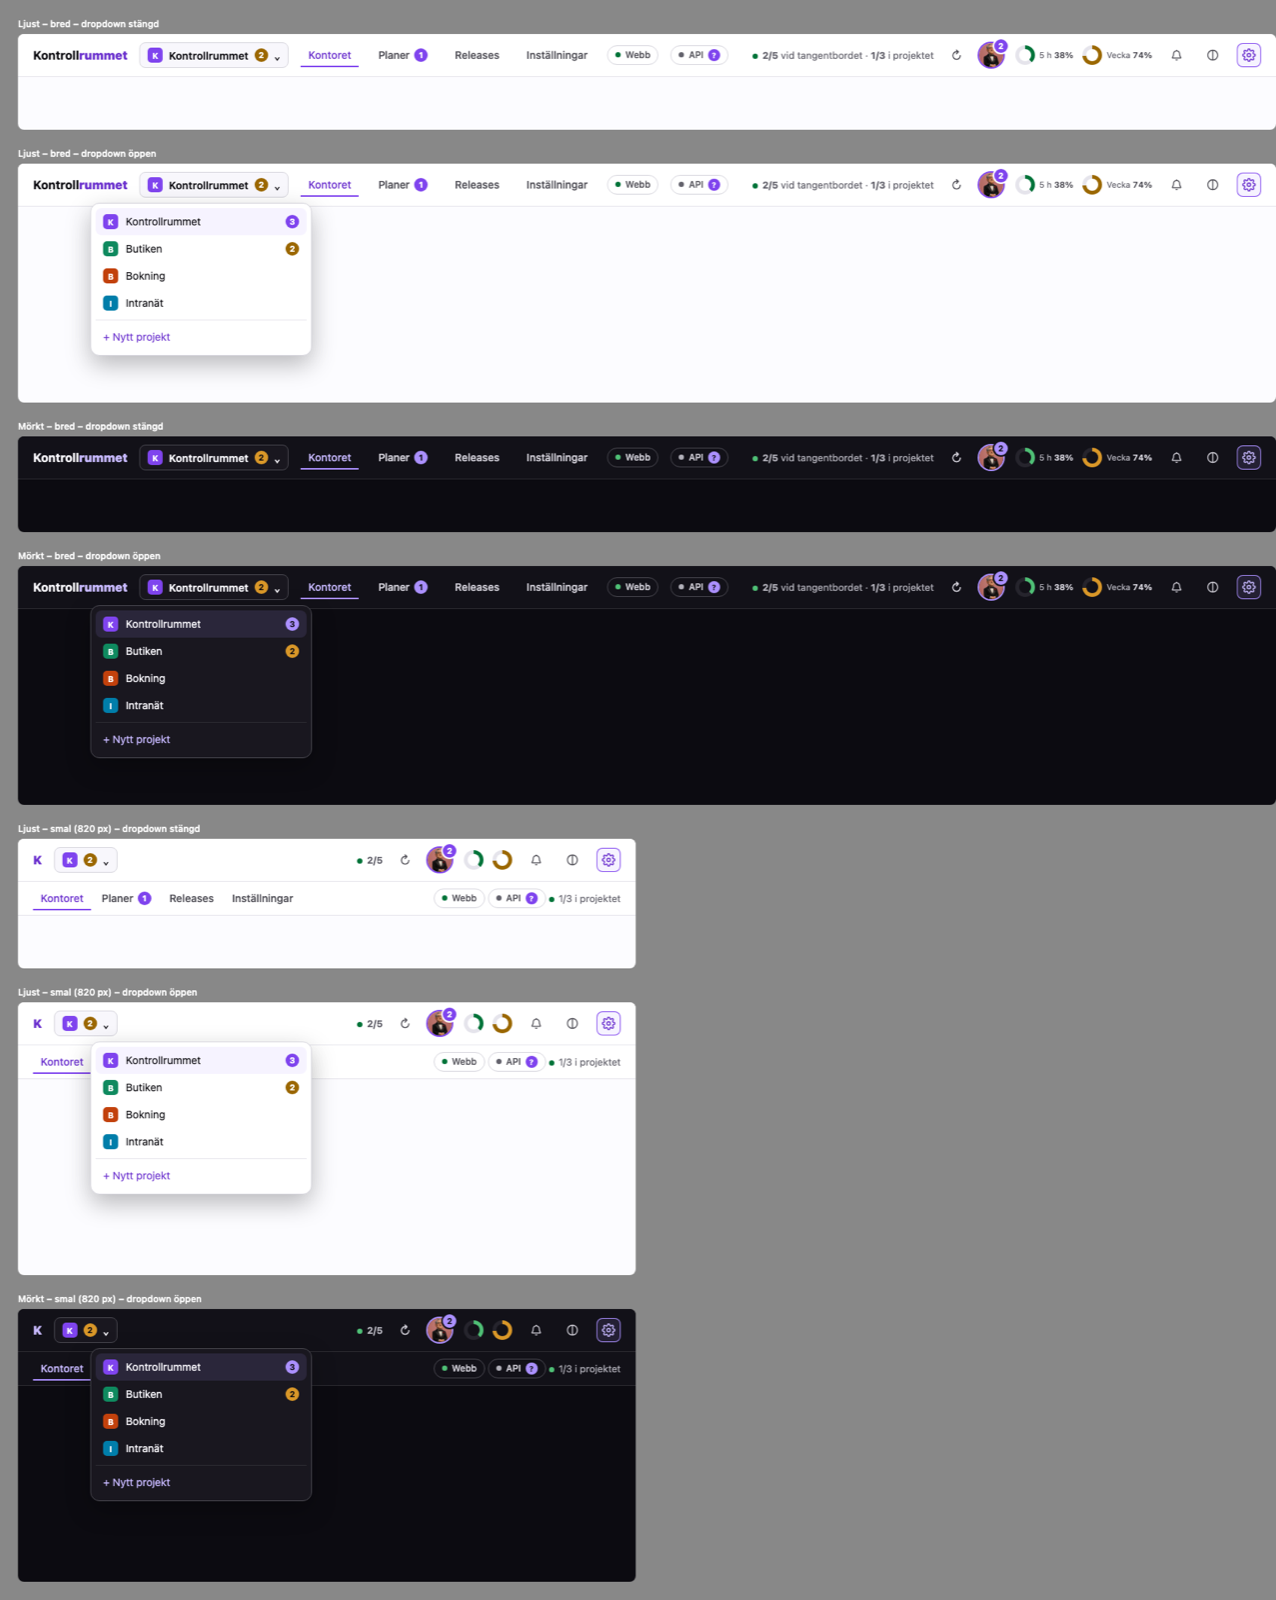
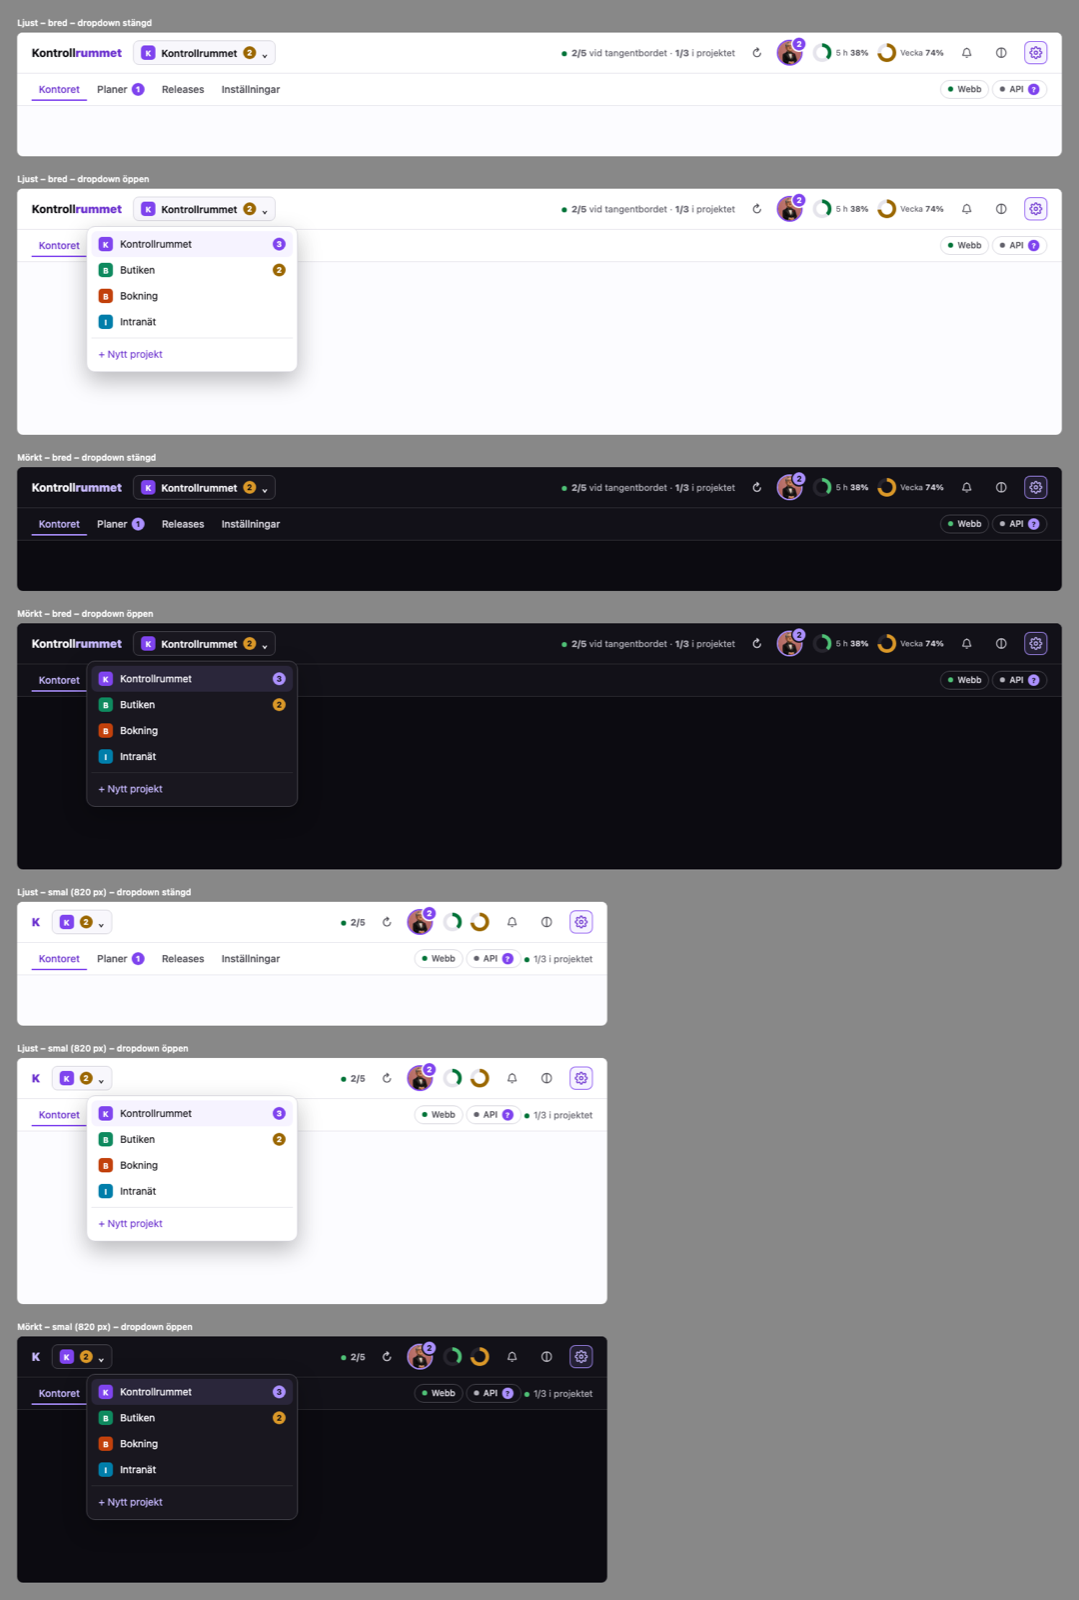
Skiss: vyflikar och appknappar på andra raden även på bred bredd

Changed region(s): [[0.0, 0.0, 1.0, 1.0]]

diff --git a/design/toppmeny.html b/design/toppmeny.html
@@ -23,7 +23,7 @@ h2{margin:0 0 6px;font:600 12px system-ui;color:#fff}
 .mi{display:flex;align-items:center;gap:10px;padding:8px 10px;border-radius:8px}
 .mi.sel{background:var(--color-brand-tint)}.mi span.n{flex:1}.mi .cnt{margin-left:auto}
 .mi.new{border-top:1px solid var(--color-line-hairline);border-radius:0 0 8px 8px;margin-top:4px;padding-top:12px;color:var(--color-brand-text)}
-.us{display:flex;gap:12px;align-items:center}.pie{white-space:nowrap;display:flex;align-items:center;gap:6px;font-size:11px;color:var(--color-fg-tertiary)}.pie i{width:26px;height:26px;border-radius:50%;background:conic-gradient(var(--c) calc(var(--p)*1%),var(--color-surface-4) 0);display:grid;place-items:center}.pie i::after{content:"";width:16px;height:16px;border-radius:50%;background:var(--color-bg-raised)}.pie b{color:var(--color-fg-secondary);font-weight:600;font-variant-numeric:tabular-nums}.pie.mid{--c:var(--color-state-warning)}.pie.hi{--c:var(--color-state-danger)}.pie{--c:var(--color-state-success)}.bar.sub{height:44px;gap:4px;overflow-x:auto}.narrow .menu{top:52px}.chip{display:flex;align-items:center;gap:6px;padding:4px 10px;border:1px solid var(--color-line-default);border-radius:999px;font-size:12px;font-weight:500;color:var(--color-fg-secondary);white-space:nowrap}.dot{width:7px;height:7px;border-radius:50%;background:var(--color-fg-tertiary)}.chip.run .dot,.pulse{background:var(--color-state-success)}.pulse{display:inline-block;width:7px;height:7px;border-radius:50%;margin-right:6px}.chip .cnt{min-width:16px;height:16px;font-size:10px;line-height:16px}.rs{width:28px;height:28px;font-size:16px}.sub .sp{flex:1}.pad{height:260px}.pad.s{height:70px}
+.us{display:flex;gap:12px;align-items:center}.pie{white-space:nowrap;display:flex;align-items:center;gap:6px;font-size:11px;color:var(--color-fg-tertiary)}.pie i{width:26px;height:26px;border-radius:50%;background:conic-gradient(var(--c) calc(var(--p)*1%),var(--color-surface-4) 0);display:grid;place-items:center}.pie i::after{content:"";width:16px;height:16px;border-radius:50%;background:var(--color-bg-raised)}.pie b{color:var(--color-fg-secondary);font-weight:600;font-variant-numeric:tabular-nums}.pie.mid{--c:var(--color-state-warning)}.pie.hi{--c:var(--color-state-danger)}.pie{--c:var(--color-state-success)}.bar.sub{height:44px;gap:4px;overflow-x:auto}.narrow .menu{top:52px}.chip{display:flex;align-items:center;gap:6px;padding:4px 10px;border:1px solid var(--color-line-default);border-radius:999px;font-size:12px;font-weight:500;color:var(--color-fg-secondary);white-space:nowrap}.dot{width:7px;height:7px;border-radius:50%;background:var(--color-fg-tertiary)}.chip.run .dot,.pulse{background:var(--color-state-success)}.pulse{display:inline-block;width:7px;height:7px;border-radius:50%;margin-right:6px}.chip .cnt{min-width:16px;height:16px;font-size:10px;line-height:16px}.rs{width:28px;height:28px;font-size:16px}.sub .sp{flex:1}.pad{height:240px}.pad.s{height:70px}
 .narrow{width:820px}
 .dark{color-scheme:dark}
 </style>
@@ -40,10 +40,10 @@ function frame(dark,open,narrow){
  <div class="theme ${dark?'dark':''} ${narrow?'narrow':''}" ${dark?'style="--color-bg-canvas:#0c0b11;--color-bg-raised:#121118;--color-bg-overlay:#19171f;--color-surface-2:#19171f;--color-fg-primary:#f8f7fc;--color-fg-secondary:#d5d3dc;--color-fg-tertiary:#b1b0b9;--color-line-hairline:#2e2d33;--color-line-default:#4b4a52;--color-brand-fill:#ab90ff;--color-brand-text:#c7b9ff;--color-brand-tint:#ab90ff1f;--color-state-warning:#d99728;--color-fg-on-brand:#0c0b11"':''}>
  <header class="bar"><div class="wm">${narrow?'<b>K</b>':'Kontroll<b>rummet</b>'}</div>
  <button class="pbtn" aria-haspopup="menu" aria-expanded="${open}">${logo(P[0])}${narrow?'':'Kontrollrummet'}<span class="cnt other" title="Annat projekt behöver dig">${others}</span>⌄</button>
- ${narrow?'':'<div class="tab on">Kontoret</div><div class="tab">Planer <span class="cnt">1</span></div><div class="tab">Releases</div><div class="tab">Inställningar</div><div class="chip run" title="Webben körs lokalt"><span class="dot"></span>Webb</div><div class="chip" title="API stoppat"><span class="dot"></span>API <span class="cnt">?</span></div>'}
+
  
  <div class="sp"></div><div class="st"><span class="pulse"></span><b>${narrow?"2/5":"2/5"}</b>${narrow?"":" vid tangentbordet · <b>1/3</b> i projektet"}</div><div class="ib rs" title="Starta om servern (väntar tills inga agenter arbetar)" aria-label="Starta om servern">↻</div><div class="av on" title="Gudfadern"><span class="cnt">2</span></div><div class="us">${usage(narrow)}</div><div class="ib" title="Systemnotiser är på"><svg viewBox="0 0 640 640" width="18" height="18" aria-hidden="true"><path fill="currentColor" d="M320 64C306.7 64 296 74.7 296 88L296 97.7C214.6 109.3 152 179.4 152 264L152 278.5C152 316.2 142 353.2 123 385.8L101.1 423.2C97.8 429 96 435.5 96 442.2C96 463.1 112.9 480 133.8 480L506.2 480C527.1 480 544 463.1 544 442.2C544 435.5 542.2 428.9 538.9 423.2L517 385.7C498 353.1 488 316.1 488 278.4L488 263.9C488 179.3 425.4 109.2 344 97.6L344 87.9C344 74.6 333.3 63.9 320 63.9zM488.4 432L151.5 432L164.4 409.9C187.7 370 200 324.6 200 278.5L200 264C200 197.7 253.7 144 320 144C386.3 144 440 197.7 440 264L440 278.5C440 324.7 452.3 370 475.5 409.9L488.4 432zM252.1 528C262 556 288.7 576 320 576C351.3 576 378 556 387.9 528L252.1 528z"/></svg></div><div class="ib" title="Tema"><svg viewBox="0 0 640 640" width="18" height="18" aria-hidden="true"><path fill="currentColor" d="M344 526.6L344 113.3C447.6 125.3 528 213.2 528 320C528 426.8 447.6 514.7 344 526.6zM296 526.6C192.4 514.7 112 426.8 112 320C112 213.2 192.4 125.3 296 113.4L296 526.7zM320 576C461.4 576 576 461.4 576 320C576 178.6 461.4 64 320 64C178.6 64 64 178.6 64 320C64 461.4 178.6 576 320 576z"/></svg></div>
  <div class="ib on" title="Inställningar för appen" aria-label="Inställningar för appen">${gear}</div></header>
- ${narrow?'<nav class="bar sub" aria-label="Vyer"><div class="tab on">Kontoret</div><div class="tab">Planer <span class="cnt">1</span></div><div class="tab">Releases</div><div class="tab">Inställningar</div><div class="sp"></div><div class="chip run" title="Webben körs lokalt"><span class="dot"></span>Webb</div><div class="chip" title="API stoppat"><span class="dot"></span>API <span class="cnt">?</span></div><span class="st"><span class="pulse"></span>1/3 i projektet</span></nav>':''}${menu}<div class="pad ${open?'':'s'}"></div></div></section>`}
+ <nav class="bar sub" aria-label="Vyer"><div class="tab on">Kontoret</div><div class="tab">Planer <span class="cnt">1</span></div><div class="tab">Releases</div><div class="tab">Inställningar</div><div class="sp"></div><div class="chip run" title="Webben körs lokalt"><span class="dot"></span>Webb</div><div class="chip" title="API stoppat"><span class="dot"></span>API <span class="cnt">?</span></div>${narrow?'<span class="st"><span class="pulse"></span>1/3 i projektet</span>':''}</nav>${menu}<div class="pad ${open?'':'s'}"></div></div></section>`}
 document.body.insertAdjacentHTML('beforeend',[[0,0,0],[0,1,0],[1,0,0],[1,1,0],[0,0,1],[0,1,1],[1,1,1]].map(a=>frame(...a)).join(''));
 </script>
